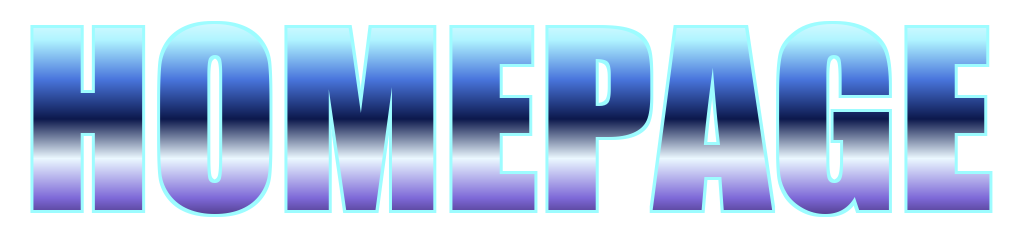
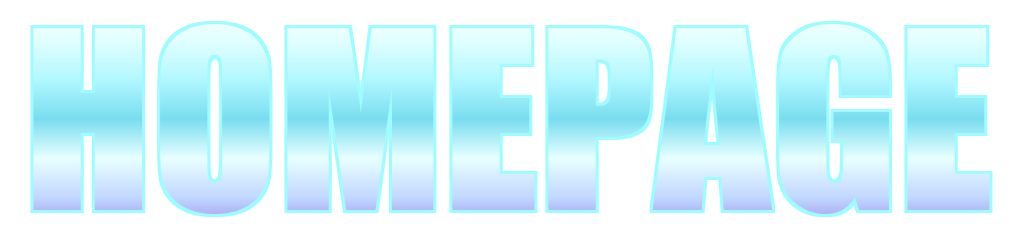
Simplify mobile controls and restore combo type

diff --git a/src/styles/global.css b/src/styles/global.css
@@ -1786,29 +1786,17 @@ html[data-site-gate="open"] .opening-sequence[data-opening-state="entry"] {
 }
 
 .combo-hud strong {
-  display: flex;
-  align-items: center;
+  display: block;
+  color: #ff1744;
+  font-family: Impact, Haettenschweiler, "Arial Narrow", sans-serif;
   font-size: clamp(3.6rem, 8vw, 6.4rem);
+  font-weight: 900;
   line-height: 0.86;
-}
-
-.combo-glyph {
-  width: 0.68em;
-  height: 1em;
-  flex: 0 0 0.68em;
-  background-image: url("/portfolio-assets/ui/text/combo-impact-pixel.webp");
-  background-position: calc(var(--combo-glyph-index) * 10%) 50%;
-  background-repeat: no-repeat;
-  background-size: 1100% 100%;
-  image-rendering: pixelated;
-  filter:
-    drop-shadow(0 0 2px rgba(255, 255, 255, 0.46))
-    drop-shadow(0 0 9px rgba(255, 0, 51, 0.76))
-    drop-shadow(0 0 20px rgba(255, 23, 68, 0.52));
-}
-
-.combo-glyph + .combo-glyph {
-  margin-left: -0.12em;
+  -webkit-text-stroke: clamp(1px, 0.18vw, 2px) rgba(255, 23, 68, 0.95);
+  text-shadow:
+    0 0 8px rgba(255, 255, 255, 0.36),
+    0 0 22px rgba(255, 0, 51, 0.72),
+    0 0 38px rgba(255, 23, 68, 0.48);
 }
 
 .combo-hud.is-popping strong {
@@ -7048,66 +7036,28 @@ html[data-debug-hud="hidden"] .hud {
   }
 
   .mobile-attack-controls button {
-    position: relative;
     display: grid;
-    grid-template-rows: 1fr auto;
     place-items: center;
-    gap: 1px;
     min-width: 0;
-    min-height: 48px;
-    padding: 4px 3px 3px;
-    overflow: hidden;
-    border: 0;
-    border-radius: 2px;
-    background:
-      linear-gradient(135deg, rgba(93, 252, 255, 0.15), transparent 42%),
-      rgba(4, 7, 24, 0.78);
+    min-height: 44px;
+    padding: 0;
+    border: 1px solid rgba(93, 252, 255, 0.48);
+    border-radius: 0;
+    background: rgba(4, 7, 24, 0.62);
     color: var(--cyan);
-    clip-path: polygon(7px 0, calc(100% - 7px) 0, 100% 7px, 100% 100%, 0 100%, 0 7px);
-    box-shadow:
-      inset 0 0 0 1px rgba(93, 252, 255, 0.54),
-      inset 0 -3px 0 rgba(255, 79, 216, 0.42),
-      0 0 12px rgba(93, 252, 255, 0.08);
+    box-shadow: inset 0 -2px 0 rgba(255, 79, 216, 0.28);
     touch-action: manipulation;
-  }
-
-  .mobile-attack-controls button::before,
-  .mobile-attack-controls button::after {
-    content: "";
-    position: absolute;
-    top: 5px;
-    width: 4px;
-    height: 4px;
-    border-top: 1px solid currentColor;
-  }
-
-  .mobile-attack-controls button::before {
-    left: 5px;
-    border-left: 1px solid currentColor;
-  }
-
-  .mobile-attack-controls button::after {
-    right: 5px;
-    border-right: 1px solid currentColor;
   }
 
   .mobile-attack-controls button:active {
     color: #ffffff;
-    background:
-      linear-gradient(135deg, rgba(255, 79, 216, 0.25), transparent 48%),
-      rgba(9, 12, 40, 0.92);
+    background: rgba(93, 252, 255, 0.12);
     transform: translateY(1px);
   }
 
   .mobile-attack-controls .command-arrow {
-    font: 800 1.25rem/0.9 var(--font-ui-pixel);
-    text-shadow: 0 0 7px rgba(93, 252, 255, 0.9);
-  }
-
-  .mobile-attack-controls .command-label {
-    color: rgba(249, 244, 255, 0.58);
-    font: 700 0.38rem/1 var(--font-ui-pixel);
-    letter-spacing: 0.04em;
+    font: 800 1.3rem/1 var(--font-ui-pixel);
+    text-shadow: 0 0 6px rgba(93, 252, 255, 0.72);
   }
 
   .mobile-attack-controls .attack-left {

diff --git a/src/scripts/neonDrive.ts b/src/scripts/neonDrive.ts
@@ -3407,25 +3407,6 @@ function drawComboOverlay() {
   return;
 }
 
-function syncComboGlyphs(count: number) {
-  const target = readout.comboValue;
-  if (!target) return;
-  const value = `${count}X`;
-  if (target.dataset.comboValue === value) return;
-  target.dataset.comboValue = value;
-  target.setAttribute("aria-label", value);
-  target.replaceChildren(
-    ...Array.from(value, (glyph) => {
-      const span = document.createElement("span");
-      span.className = "combo-glyph";
-      span.setAttribute("aria-hidden", "true");
-      const index = glyph === "X" ? 10 : Number.parseInt(glyph, 10);
-      span.style.setProperty("--combo-glyph-index", String(index));
-      return span;
-    }),
-  );
-}
-
 function drawScorePopups() {
   if (scorePopups.length === 0) return;
 
@@ -3648,7 +3629,7 @@ function updateHud() {
     readout.combo.hidden = !showCombo;
     readout.combo.classList.toggle("is-popping", showCombo && state.comboFlashTimer > 0);
   }
-  syncComboGlyphs(state.comboCount);
+  if (readout.comboValue) readout.comboValue.textContent = `${state.comboCount}X`;
 }
 
 function setStatus(value: string) {

diff --git a/scripts/generate-opening-mobile-titles.py b/scripts/generate-opening-mobile-titles.py
@@ -29,7 +29,7 @@ def make_senri() -> None:
     mask = title_mask("SENRI'S")
     fill = Image.new("RGBA", mask.size, (0, 0, 0, 0))
     draw = ImageDraw.Draw(fill)
-    stripe = ((247, 255, 255, 255), (102, 247, 255, 245), (48, 151, 190, 210), (223, 255, 255, 250))
+    stripe = ((255, 255, 255, 255), (218, 255, 255, 255), (148, 246, 255, 245), (238, 255, 255, 255))
     for y in range(mask.height):
         draw.line((0, y, mask.width, y), fill=stripe[(y // 7) % len(stripe)])
     outlined_art(mask, fill, (239, 255, 255, 230), 2).save(
@@ -41,12 +41,12 @@ def make_homepage() -> None:
     mask = title_mask("HOMEPAGE")
     stops = (
         (255, 255, 255, 255),
-        (176, 244, 255, 255),
-        (73, 117, 220, 255),
-        (12, 24, 76, 255),
-        (235, 248, 255, 255),
-        (126, 105, 216, 255),
-        (26, 8, 48, 255),
+        (226, 255, 255, 255),
+        (178, 247, 255, 255),
+        (121, 221, 239, 255),
+        (232, 255, 255, 255),
+        (192, 214, 255, 255),
+        (151, 128, 224, 255),
     )
     fill = Image.new("RGBA", mask.size, (0, 0, 0, 0))
     draw = ImageDraw.Draw(fill)
@@ -61,28 +61,7 @@ def make_homepage() -> None:
     )
 
 
-def make_combo_glyphs() -> None:
-    glyphs = "0123456789X"
-    cell_width, cell_height, scale = 48, 64, 4
-    font = ImageFont.truetype(str(FONT), size=60)
-    low = Image.new("RGBA", (cell_width * len(glyphs), cell_height), (0, 0, 0, 0))
-    for index, glyph in enumerate(glyphs):
-        mask = Image.new("L", (cell_width, cell_height), 0)
-        bounds = font.getbbox(glyph)
-        x = (cell_width - (bounds[2] - bounds[0])) // 2 - bounds[0]
-        y = (cell_height - (bounds[3] - bounds[1])) // 2 - bounds[1]
-        ImageDraw.Draw(mask).text((x, y), glyph, font=font, fill=255)
-        # A hard threshold keeps the original Impact skeleton but converts its
-        # curves into deliberate low-resolution pixel steps.
-        mask = mask.point(lambda value: 255 if value >= 96 else 0)
-        low.paste((255, 23, 68, 255), (index * cell_width, 0), mask)
-    low.resize((low.width * scale, low.height * scale), Image.Resampling.NEAREST).save(
-        OUTPUT / "combo-impact-pixel.webp", "WEBP", lossless=True, method=6
-    )
-
-
 if __name__ == "__main__":
     OUTPUT.mkdir(parents=True, exist_ok=True)
     make_senri()
     make_homepage()
-    make_combo_glyphs()
